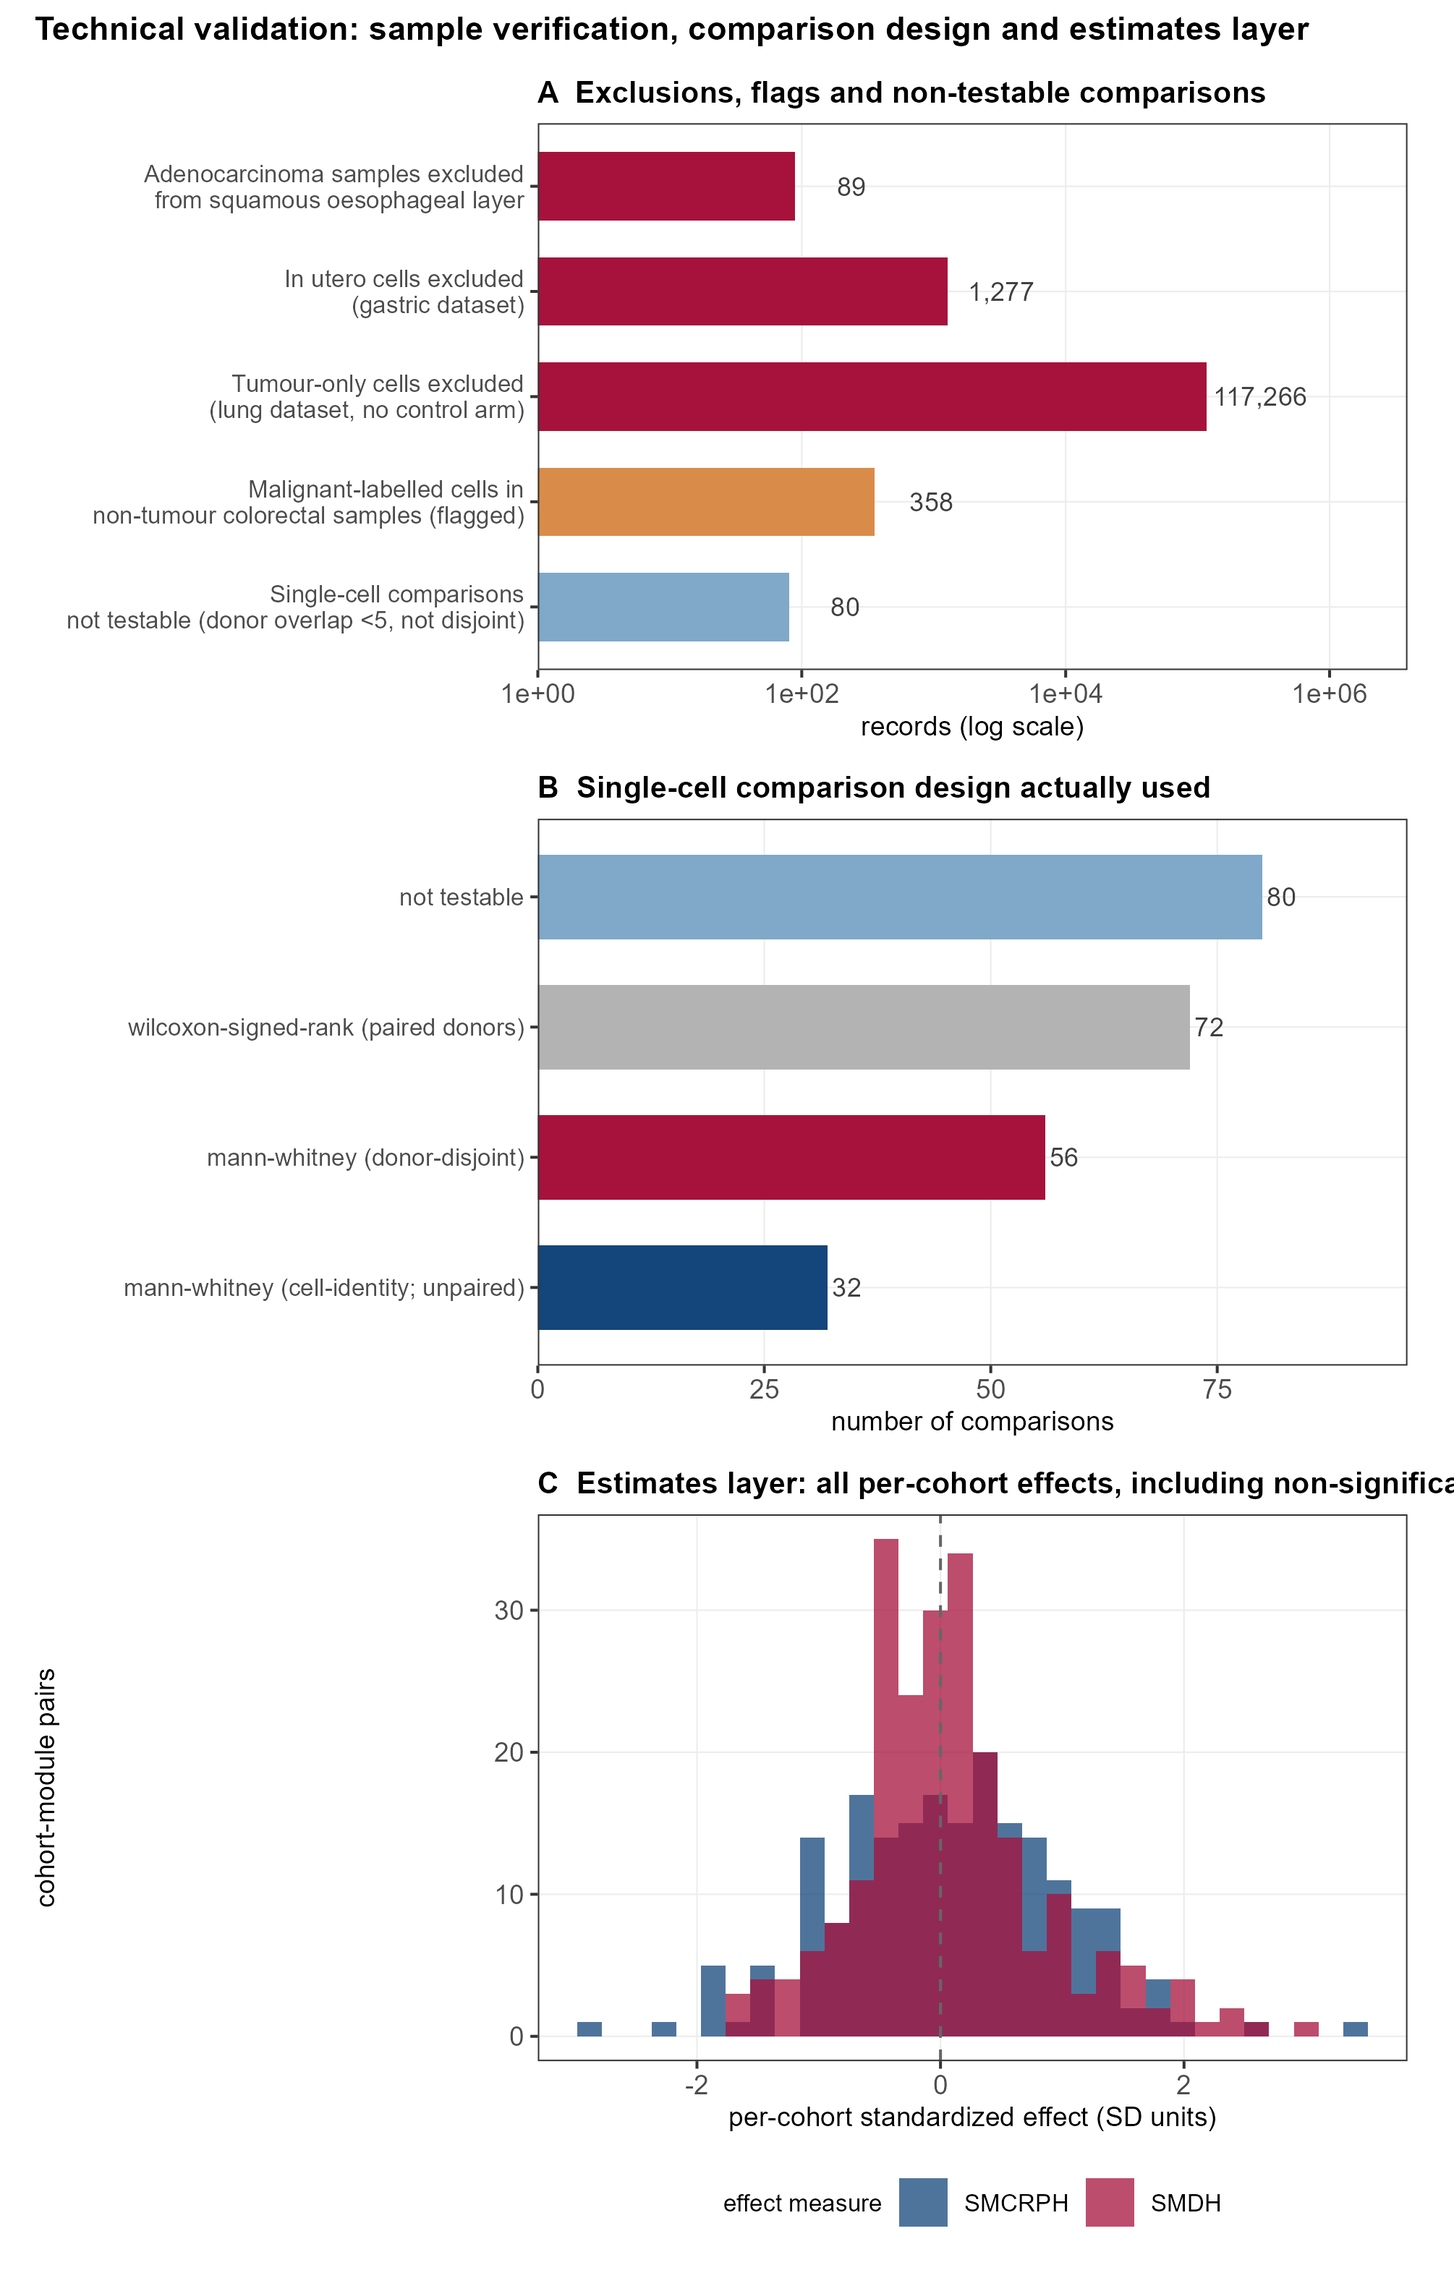
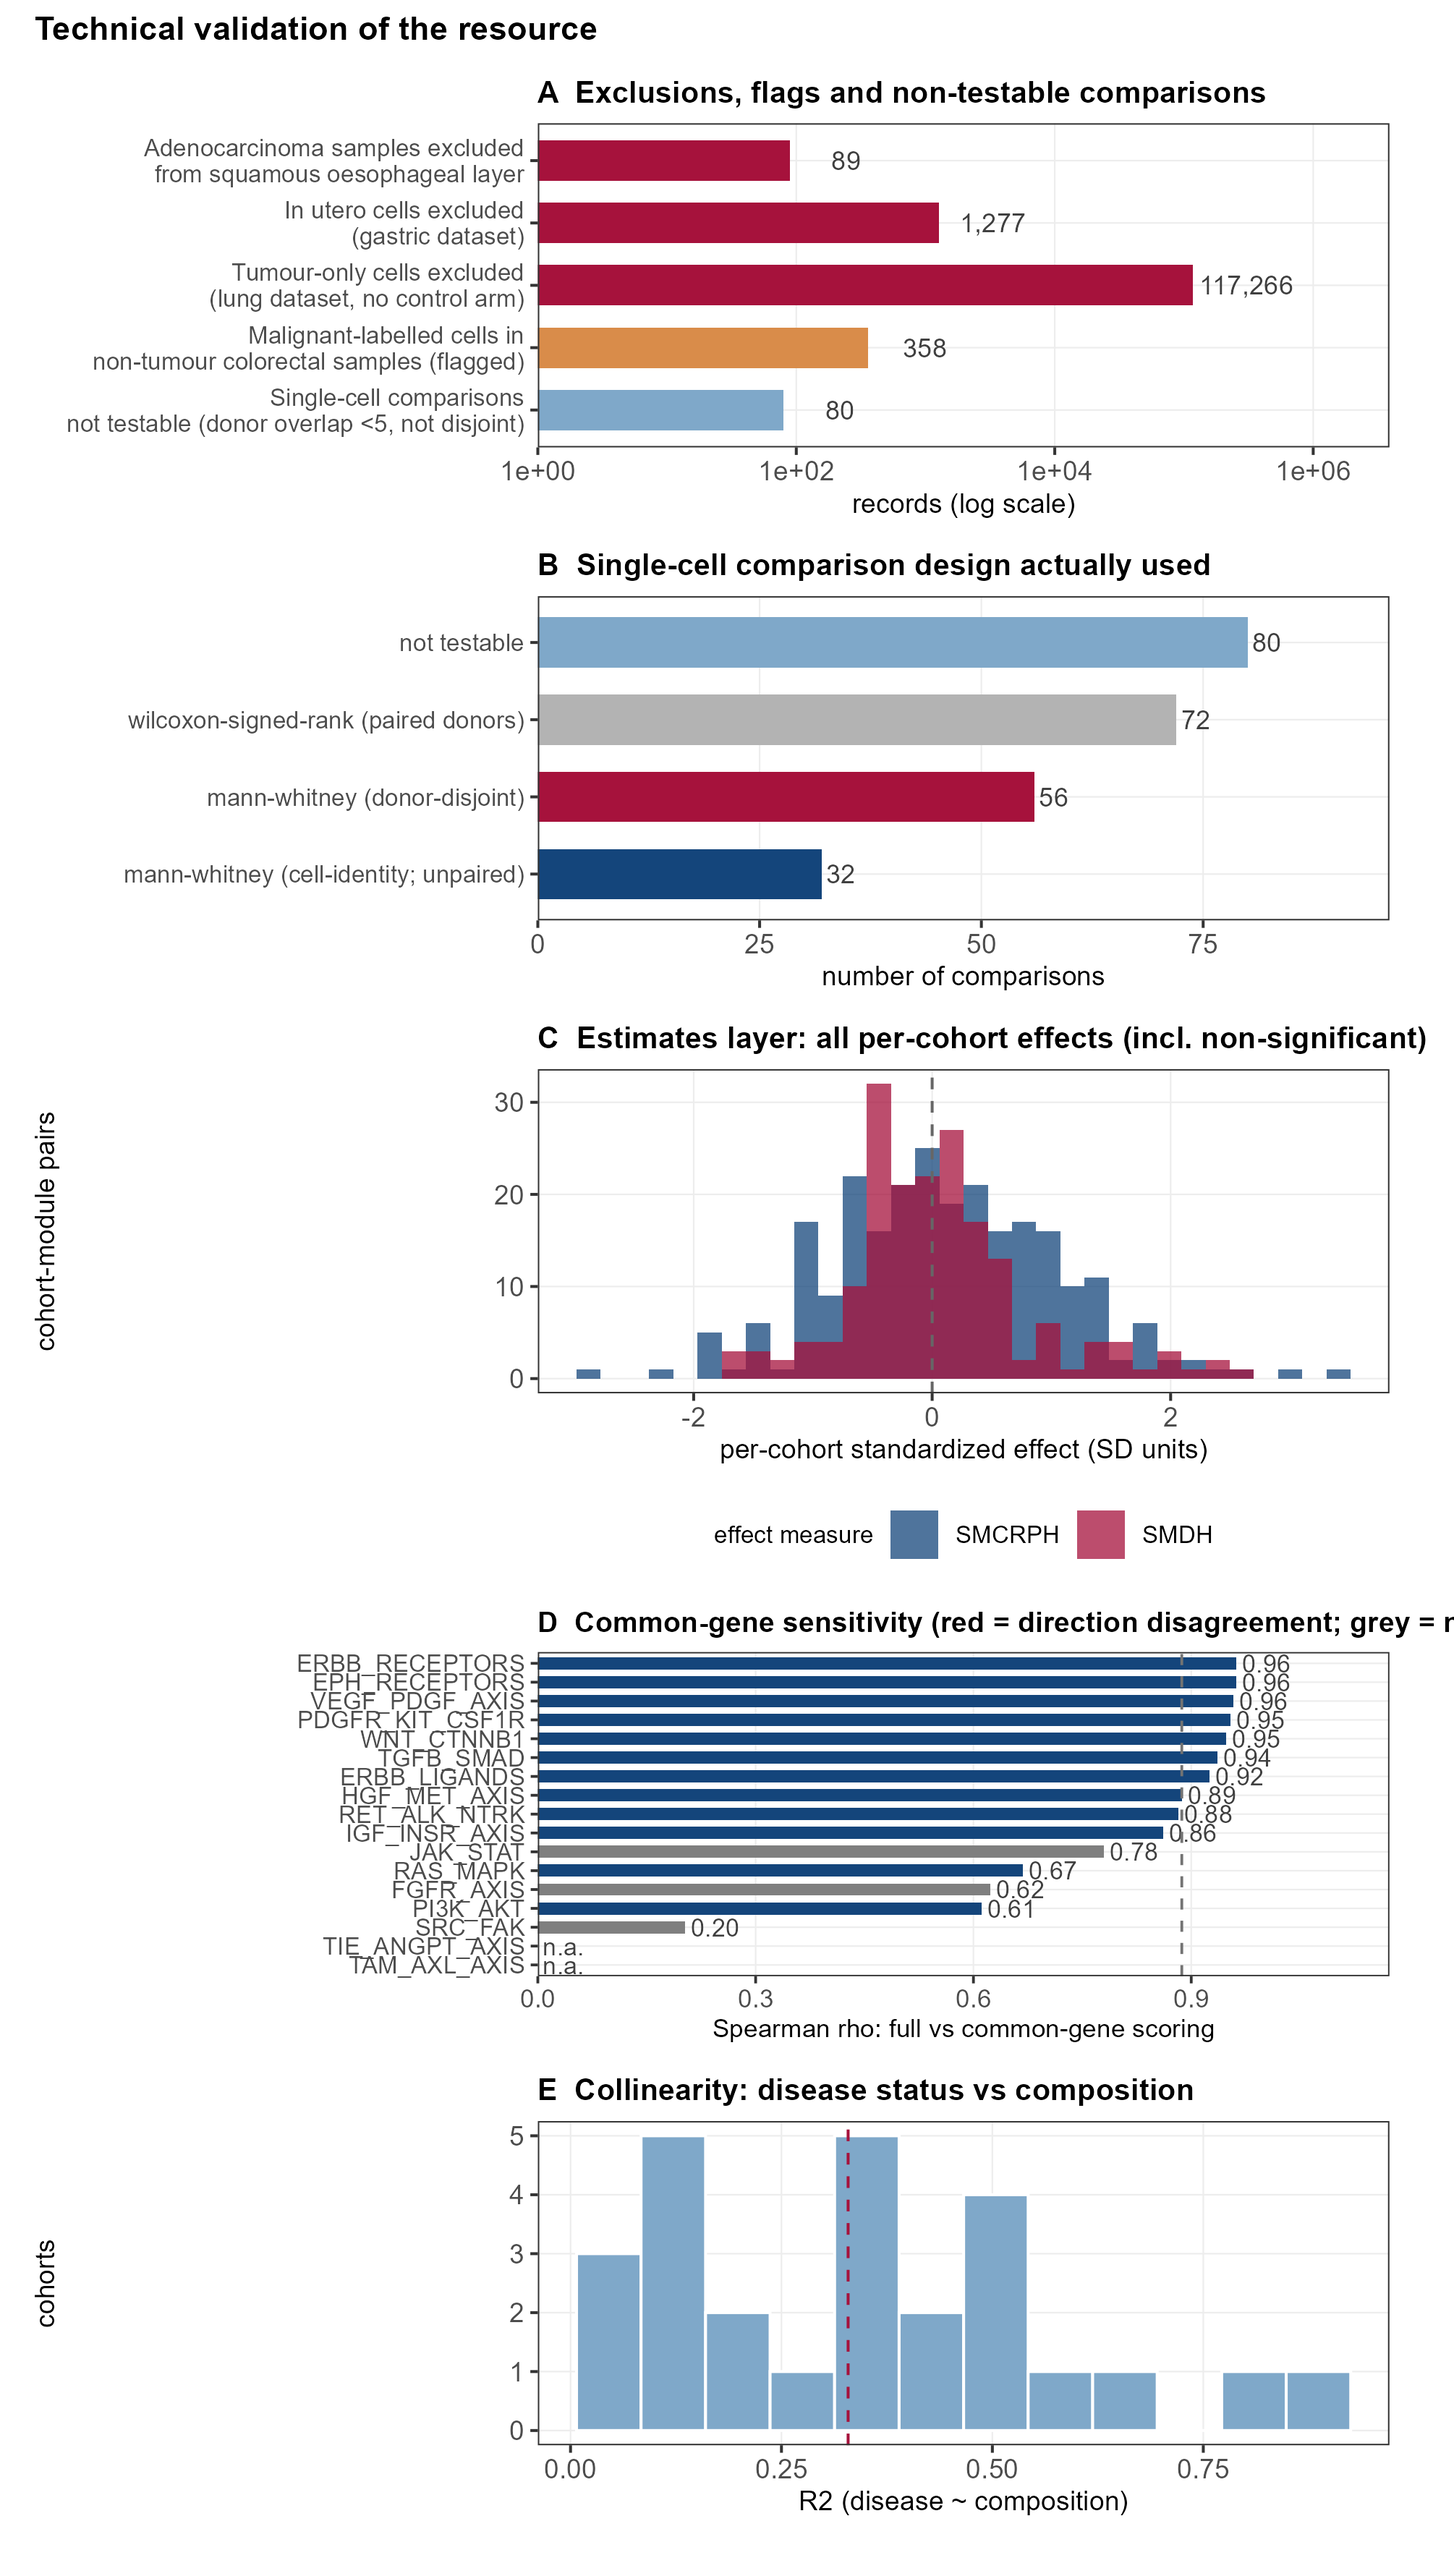
v12: Figure 2 extended with common-gene sensitivity and composition collinearity panels; layout verified by OCR (no true clipping) and caption updated

diff --git a/scripts/v12_data_resource/75_v12_fig2_finalize.py b/scripts/v12_data_resource/75_v12_fig2_finalize.py
@@ -1,0 +1,63 @@
+#!/usr/bin/env python3
+# -*- coding: utf-8 -*-
+"""v12: verify Fig2 layout by OCR, refresh the Figure 2 caption, rebuild docx/pdf/zips and re-run audits."""
+import csv, os, shutil, subprocess, sys
+from PIL import Image
+V12=r"C:\Users\fengq\Desktop\EGFR\EGFR的v12"; R=os.path.join(V12,"results"); PK=os.path.join(V12,"dataset_package")
+TESS=r"C:\Program Files\Tesseract-OCR\tesseract.exe"; TMP=r"C:\Users\fengq\ocr_tmp"
+shutil.rmtree(TMP,ignore_errors=True); os.makedirs(TMP)
+def ocr(path):
+    env=dict(os.environ, TESSDATA_PREFIX=r"C:\Program Files\Tesseract-OCR\tessdata")
+    r=subprocess.run([TESS,path,"stdout","--psm","11","tsv"],capture_output=True,env=env)
+    out=[]
+    for row in csv.DictReader(r.stdout.decode("utf-8","replace").splitlines(), delimiter="\t"):
+        t=(row.get("text") or "").strip()
+        if not t: continue
+        try: out.append(dict(t=t,c=float(row.get("conf") or -1),x=int(row["left"]),y=int(row["top"]),w=int(row["width"]),h=int(row["height"])))
+        except Exception: pass
+    return [w for w in out if w["c"]>30]
+print("== OCR layout check ==")
+for f in ["Fig1_resource_overview.png","Fig2_technical_validation.png"]:
+    dst=os.path.join(TMP,f); shutil.copy(os.path.join(V12,"02_figures",f),dst)
+    W,H=Image.open(dst).size; ws=ocr(dst)
+    clip=[w["t"] for w in ws if w["x"]<=2 or w["y"]<=2 or w["x"]+w["w"]>=W-2 or w["y"]+w["h"]>=H-2]
+    print(f"  {f}: {W}x{H} ({W/300*2.54:.1f} x {H/300*2.54:.1f} cm) words={len(ws)} clipped={len(clip)} {clip[:4]}")
+# refresh the Figure 2 caption
+p=os.path.join(V12,"01_manuscript","DataDescriptor_v12.md"); s=open(p,encoding="utf-8").read()
+old="**Figure 2. Technical validation.** (A) Documented exclusions, flags and non-testable comparisons (log scale). (B) The single-cell comparison design actually used, by test type. (C) The complete estimates layer: all per-cohort standardized effects, including non-significant results."
+new=("**Figure 2. Technical validation.** (A) Documented exclusions, flags and non-testable comparisons (log scale). "
+     "(B) The single-cell comparison design actually used, by test type. (C) The complete estimates layer: all per-cohort standardized effects, "
+     "including non-significant results. (D) Common-gene sensitivity: Spearman correlation between full-member and cross-cohort common-gene scoring "
+     "for each module, coloured by whether effect directions disagreed in at least 20% of cohorts or too few genes are shared to re-score. "
+     "(E) Collinearity between disease status and the four composition scores, per cohort, with the median marked.")
+if old in s:
+    s=s.replace(old,new); open(p,"w",encoding="utf-8").write(s); print("caption updated")
+else:
+    print("caption anchor NOT found (will reword manually)")
+# rebuild docx + zips + pdf
+for script in ["80_build_docx_zip.py"]:
+    r=subprocess.run([sys.executable, os.path.join(V12,"scripts",script)],capture_output=True,text=True)
+    print(r.stdout.strip()[-200:])
+pdf=os.path.join(V12,"01_manuscript","DataDescriptor_v12.pdf")
+if os.path.exists(pdf): os.remove(pdf)
+subprocess.run([r"C:\Program Files\LibreOffice\program\soffice.exe","--headless","--convert-to","pdf",
+                "--outdir",os.path.join(V12,"01_manuscript"),os.path.join(V12,"01_manuscript","DataDescriptor_v12.docx")],capture_output=True)
+# refresh inventory inside the package, then audits
+inv=[]
+import hashlib
+for d0,_,fn in os.walk(PK):
+    for f in sorted(fn):
+        fp=os.path.join(d0,f); rel=os.path.relpath(fp,PK); h=hashlib.sha256()
+        with open(fp,"rb") as fh:
+            for c in iter(lambda: fh.read(1<<20), b""): h.update(c)
+        nrows=""
+        if f.lower().endswith(".csv"):
+            try: nrows=sum(1 for _ in open(fp,encoding="utf-8-sig"))-1
+            except Exception: nrows=""
+        inv.append(dict(file=rel, bytes=os.path.getsize(fp), rows=nrows, sha256=h.hexdigest()))
+with open(os.path.join(PK,"08_qc","file_inventory_and_checksums.csv"),"w",encoding="utf-8-sig",newline="") as f:
+    w=csv.DictWriter(f,fieldnames=list(inv[0].keys())); w.writeheader(); w.writerows(inv)
+for s2 in ["90_v12_checks.py","91_v12_lowlevel_audit.py"]:
+    r=subprocess.run([sys.executable, os.path.join(V12,"scripts",s2)],capture_output=True,text=True)
+    tail=[l for l in r.stdout.strip().splitlines() if l.startswith(("issues:","  ISSUE","passed:"))]
+    print(s2,"->"," | ".join(tail))

diff --git a/manuscript/DataDescriptor_v12.md b/manuscript/DataDescriptor_v12.md
@@ -25,7 +25,7 @@ Figure 1 shows coverage and composition of the resource, and Figure 2 the valida
 
 **Figure captions**
 **Figure 1. Resource overview.** (A) Module gene coverage by disease context (fraction of module members present in the processed matrix of each cohort). (B) Assay records, unique patients and paired patients per context. (C) Single-cell datasets and the comparison arms available in each; the lung dataset is shown as excluded because it contains tumour tissue only.
-**Figure 2. Technical validation.** (A) Documented exclusions, flags and non-testable comparisons (log scale). (B) The single-cell comparison design actually used, by test type. (C) The complete estimates layer: all per-cohort standardized effects, including non-significant results.
+**Figure 2. Technical validation.** (A) Documented exclusions, flags and non-testable comparisons (log scale). (B) The single-cell comparison design actually used, by test type. (C) The complete estimates layer: all per-cohort standardized effects, including non-significant results. (D) Common-gene sensitivity: Spearman correlation between full-member and cross-cohort common-gene scoring for each module, coloured by whether effect directions disagreed in at least 20% of cohorts or too few genes are shared to re-score. (E) Collinearity between disease status and the four composition scores, per cohort, with the median marked. (D) Common-gene sensitivity: Spearman correlation between full-member and cross-cohort common-gene scoring for each module, coloured by whether effect directions disagreed in at least 20% of cohorts or too few genes are shared to re-score. (E) Collinearity between disease status and the four composition scores, per cohort, with the median marked. (D) Common-gene sensitivity: Spearman correlation between full-member and cross-cohort common-gene scoring for each module, coloured by whether effect directions disagreed in at least 20% of cohorts or too few genes are shared to re-score. (E) Collinearity between disease status and the four composition scores, per cohort, with the median marked.
 
 **Usage Notes**
 Two runnable examples are shipped: replacing a module gene set and re-scoring a cohort (with a demo matrix that contains module members, so the example runs offline), and recomputing the composition comparison. Users should note that (i) scores are comparable within a cohort and across cohorts only as effect sizes; (ii) module coverage must be checked before cross-cohort comparison; (iii) bulk GSVA scores, member-mean z-scores and single-cell member-mean values are different quantities and must not be concatenated; (iv) composition scores are enrichment scores, not proportions; (v) the same disease label in different layers does not imply the same patients, and the resource is not a patient-level multi-omics resource; (vi) module scores are not validated prognostic or predictive tools, and the survival, driver and single-cell analyses shipped here are exploratory and include negative results; (vii) where a cohort lacks patient identifiers, paired analysis is impossible and this is flagged rather than assumed.
